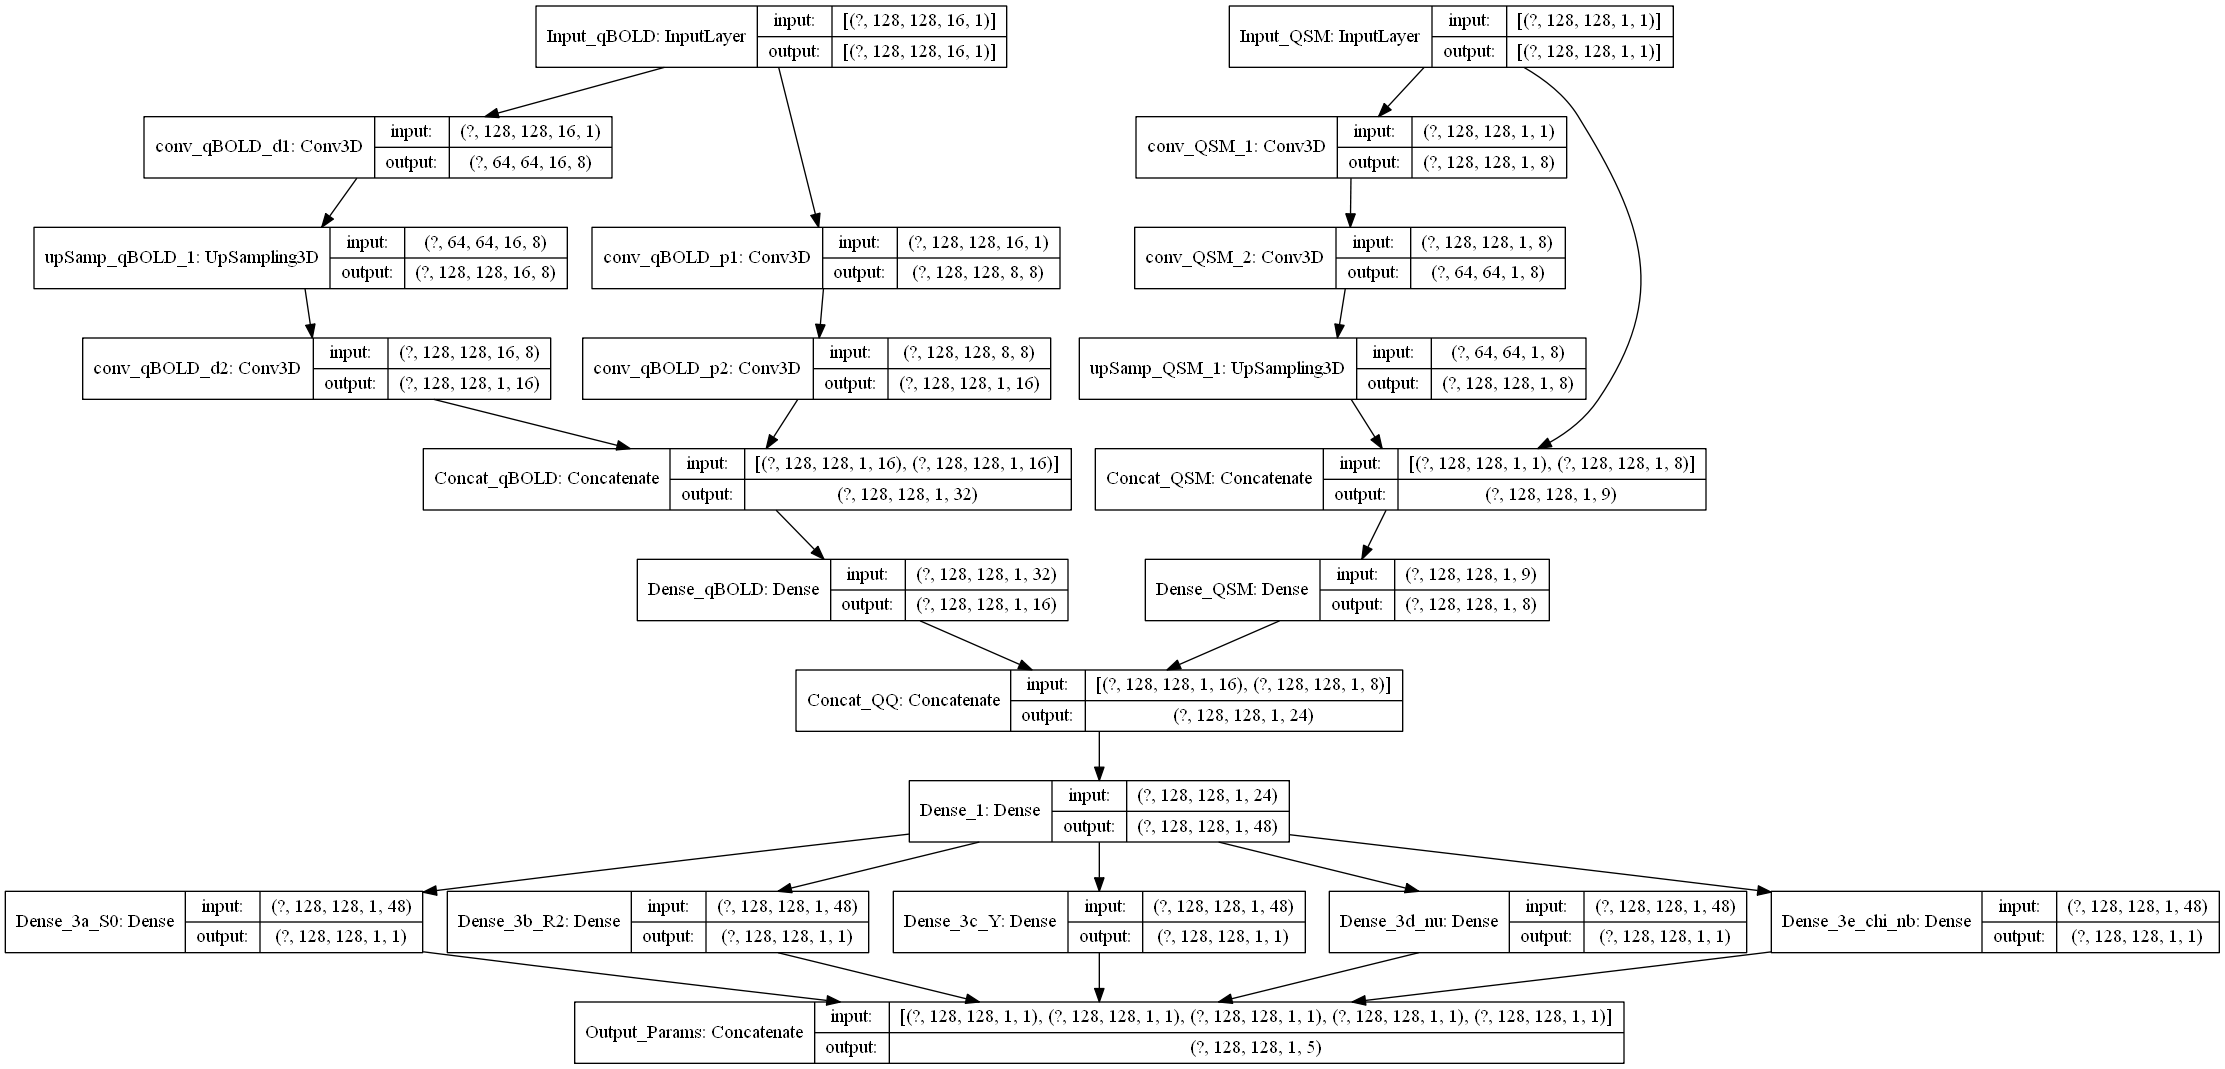
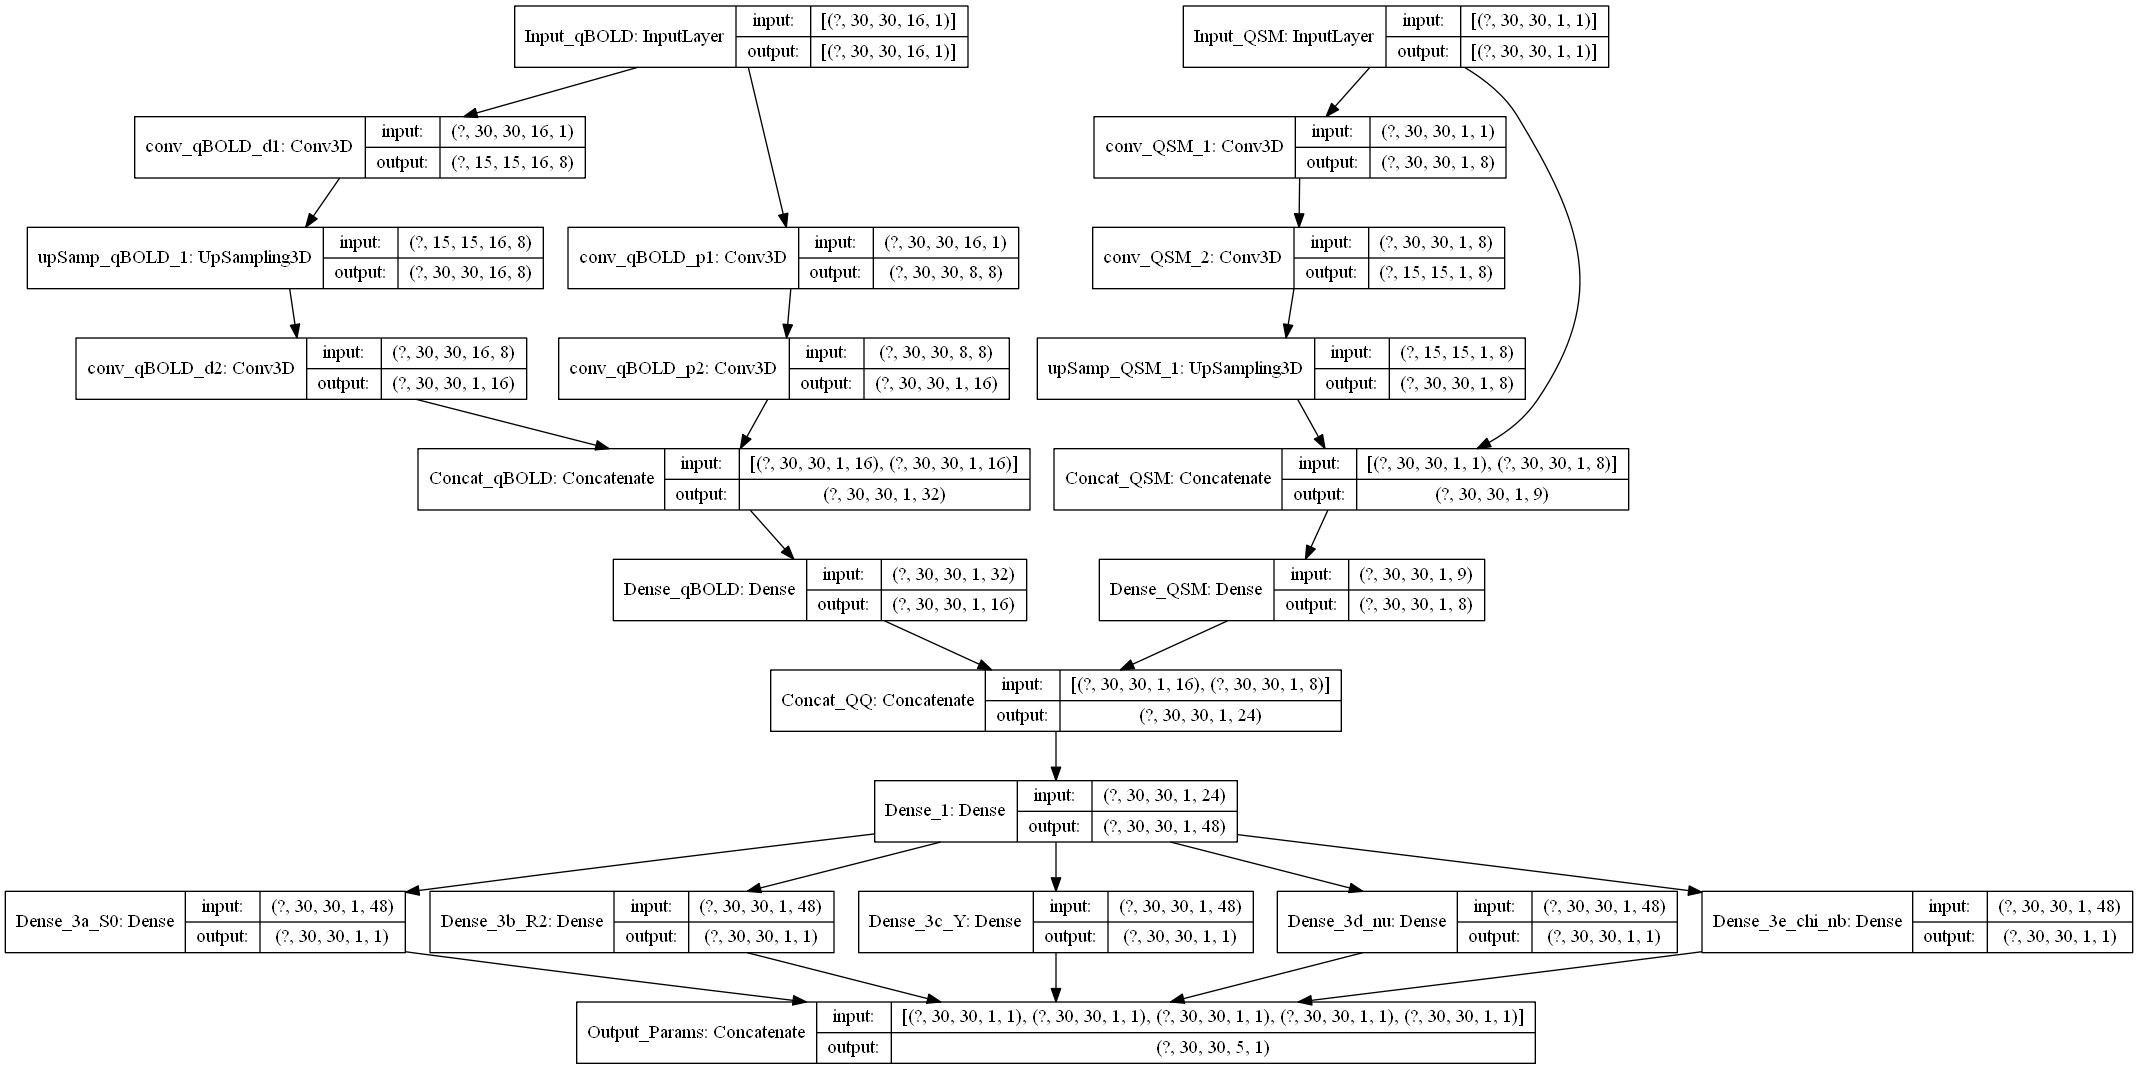
data in form for Network, Shuffling buggy

diff --git a/QSM_qBOLD_2D_network.py b/QSM_qBOLD_2D_network.py
@@ -8,46 +8,74 @@ from tensorflow import keras
 from tensorflow.keras import layers
 import matplotlib.pyplot as plt
 from sys import getsizeof
-
-# %%
-
-f = h5py.File("data/Exponential2D_bigger.hdf5", "r")
-list(f.keys())
-dset_input_train = f["input_train"]
-dset_input_noise_train = f["input_noise_train"]
-dset_target_train = f["target_train"]
-dset_input_test = f["input_test"]
-dset_input_noise_test = f["input_noise_test"]
-dset_target_test = f["target_test"]
-
-input_train = np.array(dset_input_train)
-dset_input_train.shape
-dset_input_train.dtype
-input_noise_train = np.array(dset_input_noise_train)
-target_train = np.array(dset_target_train)
-input_test = np.array(dset_input_test)
-input_noise_test = np.array(dset_input_noise_test)
-target_test = np.array(dset_target_test)
-# %%
-f.close()
+import SimpleITK as sitk
+from tqdm import tqdm  #for progress bar
+import gc
 
 
-input_train.shape
-input_train.dtype
-
-plt.plot(input_train[0,1,1,:],'o-')
-plt.plot(input_noise_train[0,1,1,:],'o')
-
-# %% Read patch images
+#%%
 data_dir = "C:/Users/pk24/Documents/Programming/Brain_Phantom/Patches/"
-Params_ds = tf.data.Dataset.list_files(data_dir+'Params/*', shuffle=False)
+def read_data(data_dir):
+    file_list_Params=[]
+    file_list_qBOLD=[]
+    file_list_QSM=[]
+    for i in tqdm(range(1000)): #42441
+        file_number = "{0}".format(i).zfill(6)
+        file_list_Params.append(data_dir+ "Params/Params_"+file_number+ ".TIF")
+        file_list_qBOLD.append(data_dir + "qBOLD/qBOLD_"+file_number+ ".TIF")
+        file_list_QSM.append(data_dir + "QSM/QSM_"+file_number+ ".TIF")
+    Params = sitk.GetArrayViewFromImage(sitk.ReadImage(file_list_Params))
+    Params = np.moveaxis(Params,1,-1) #channels last
+    qBOLD  = sitk.GetArrayViewFromImage(sitk.ReadImage(file_list_qBOLD))
+    qBOLD  = np.moveaxis(qBOLD,1,-1) #channels last
+    QSM  = sitk.GetArrayViewFromImage(sitk.ReadImage(file_list_QSM))
+    QSM= np.expand_dims(QSM,axis=-1) #add one channel
+    return Params,qBOLD,QSM
 
-for f in Params_ds.take(5):
-  print(f.numpy())
+Params,qBOLD,QSM = read_data(data_dir)
+print(Params.shape)
+print(qBOLD.shape)
+print(QSM.shape)
 
 
+#%% shuffle images
+"""
+idx = rand(Params.shape[0]).argsort()
+idx.shape
+print(idx[0])
+Params_shuffled = np.zeros(Params.shape)
+qBOLD_shuffled = np.zeros(qBOLD.shape)
+QSM_shuffled = np.zeros(QSM.shape)
+for i in range(len(idx)):
+    print(i)
+    Params_shuffled[i,:,:,:] = Params[idx[i],:,:,:]
+for i in range(len(idx)):
+    print(i)
+    for j in range(qBOLD.shape[1]):
+        for k in range(qBOLD.shape[2]):
+                qBOLD_shuffled[i,j,k,:] = qBOLD[idx[i],j,k,:]
+for i in tqdm(range(len(idx))):
+    QSM_shuffled[i,:,:,:] = QSM[idx[i],:,:,:]
+Params = Params_shuffled
+qBOLD = qBOLD_shuffled
+QSM = QSM_shuffled
+del Params_shuffled,qBOLD_shuffled,QSM_shuffled
+gc.collect()
+print(Params.shape)
+print(qBOLD.shape)
+print(QSM.shape)
+"""
+#%% split in training and test
+threshold = int(Params.shape[0]*0.9)
+threshold
+Params_training= Params[:threshold,:,:,:]
+Params_test= Params[threshold:,:,:,:]
+qBOLD_training= qBOLD[:threshold,:,:,:]
+qBOLD_test= qBOLD[threshold:,:,:,:]
+QSM_training= QSM[:threshold,:,:,:]
+QSM_test= QSM[threshold:,:,:,:]
 # %% norm
-
+"""
 def norm_signal_array(input,target):
     for i in range(input.shape[0]):
         for j in range(input.shape[1]):
@@ -59,7 +87,7 @@ def norm_signal_array(input,target):
 input_noise_norm_train, target_train = norm_signal_array(input_noise_train, target_train)
 plt.plot(input_noise_norm_train[0,1,1,:],'o')
 input_noise_norm_test, target_test = norm_signal_array(input_noise_test, target_test)
-
+"""
 """
 input_noise_norm_train = np.log(input_noise_train)
 input_noise_norm_test = np.log(input_noise_test)
@@ -74,6 +102,7 @@ input_noise_norm_test = input_noise_test
 input_norm_test = input_test
 """
 # %% augment data
+"""
 def augment_data(m):
     m = np.concatenate((m,np.flip(m, axis=1)), axis=0)
     m = np.concatenate((m,np.rot90(m, k=1, axes=(2,1))), axis=0)
@@ -108,15 +137,15 @@ ax[3].imshow(input_noise_norm_test[700,:,:,1], cmap='Greys')
 
 
 
-
+"""
 
 
 # %% Network
 
-input_qBOLD = keras.Input(shape=(128,128,16,1), name = 'Input_qBOLD')
-input_QSM = keras.Input(shape=(128,128,1,1), name = 'Input_QSM')
-input_layer.shape
-input_layer.dtype
+input_qBOLD = keras.Input(shape=(30,30,16,1), name = 'Input_qBOLD')
+
+input_qBOLD.shape
+input_qBOLD.dtype
 
 n=8
 
@@ -162,6 +191,8 @@ model_qBOLD = keras.Model(inputs=input_qBOLD, outputs = dense_layer_qBOLD, name=
 model_qBOLD.summary()
 keras.utils.plot_model(model_qBOLD, show_shapes=True)
 # %%
+
+input_QSM = keras.Input(shape=(30,30,1,1), name = 'Input_QSM')
 conv_QSM_1 = keras.layers.Conv3D(8,
                   (3,3,1),
                   strides=(1,1,1),
@@ -200,7 +231,7 @@ dense_layer_3e = layers.Dense(1,activation="sigmoid", name = 'Dense_3e_chi_nb')(
 
 #before_lambda_model = keras.Model(input_layer, dense_layer_3, name="before_lambda_model")
 
-Params_Layer = layers.Concatenate(name = 'Output_Params')([dense_layer_3a,dense_layer_3b,dense_layer_3c,dense_layer_3d,dense_layer_3e])
+Params_Layer = layers.concatenate(name = 'Output_Params',inputs=[dense_layer_3a,dense_layer_3b,dense_layer_3c,dense_layer_3d,dense_layer_3e],axis=-2)
 #Params_Layer = layers.Concatenate(name = 'Output_Params')([dense_layer_3b,dense_layer_3c])
 model_params = keras.Model(inputs=[input_qBOLD,input_QSM],outputs=Params_Layer,name="Params_model")
 model_params.summary()
@@ -208,11 +239,17 @@ keras.utils.plot_model(model_params, show_shapes=True)
 
 
 # %% Train Params model
+
 model_params.compile(
     loss=keras.losses.MeanAbsolutePercentageError(),
+    #loss=keras.losses.MeanSquaredLogarithmicError(),
+    #loss=keras.losses.MeanSquaredError(),
     optimizer='adam',
+    #metrics=[tf.keras.metrics.MeanAbsolutePercentageError()],
     metrics=["accuracy"],
 )
+
+#model_params.compile(optimizer='sgd', loss=tf.keras.losses.CosineSimilarity(axis=-2))
 
 my_callbacks = [
     tf.keras.callbacks.EarlyStopping(patience=2),
@@ -221,14 +258,14 @@ my_callbacks = [
 ]
 
 
-history = model_params.fit(input_noise_norm_train, target_train[:,:,:,:], batch_size=10, epochs=50, validation_split=0.2, callbacks=my_callbacks)
-test_scores = model_params.evaluate(input_noise_norm_test, target_test[:,:,:,:], verbose=2)
+history = model_params.fit([qBOLD_training,QSM_training], Params_training , batch_size=100, epochs=50, validation_split=0.2, callbacks=my_callbacks)
+test_scores = model_params.evaluate([qBOLD_test,QSM_test], Params_test, verbose=2)
 print("Test loss:", test_scores[0])
 print("Test accuracy:", test_scores[1])
 
 
-model_params.save("Model_2D_Params_before.h5")
-
+#model_params.save("Model_2D_Params_before.h5")
+"""
 # %%
 model_params = keras.models.load_model("Model_2D_Params_before.h5")
 model_params.summary()
@@ -300,7 +337,7 @@ def simulateSignal_for_FID(tensor):
 
 
 def simulateSignal_for_Echo_Peak_rise(tensor):
-    """x[0] = S0, x[1] = T2, x[2] = T2S   """
+    # x[0] = S0, x[1] = T2, x[2] = T2S
     t=tf.constant([21,24,27,30,33,36,39], dtype=tf.float32)
     S0 = tensor[0]
     T2 = tensor[1]
@@ -310,7 +347,7 @@ def simulateSignal_for_Echo_Peak_rise(tensor):
     return output
 
 def simulateSignal_for_Echo_Peak_fall(tensor):
-    """x[0] = S0, x[1] = T2, x[2] = T2S   """
+    # x[0] = S0, x[1] = T2, x[2] = T2S
     t=tf.constant([42,45,48], dtype=tf.float32)
     S0 = tensor[0]
     T2 = tensor[1]
@@ -386,3 +423,4 @@ ax[2].plot(target_test[Number,64,:,2])
 ax[2].plot(p_after[Number,64,:,2])
 ax[2].title.set_text('T2S')
 plt.show()
+"""
